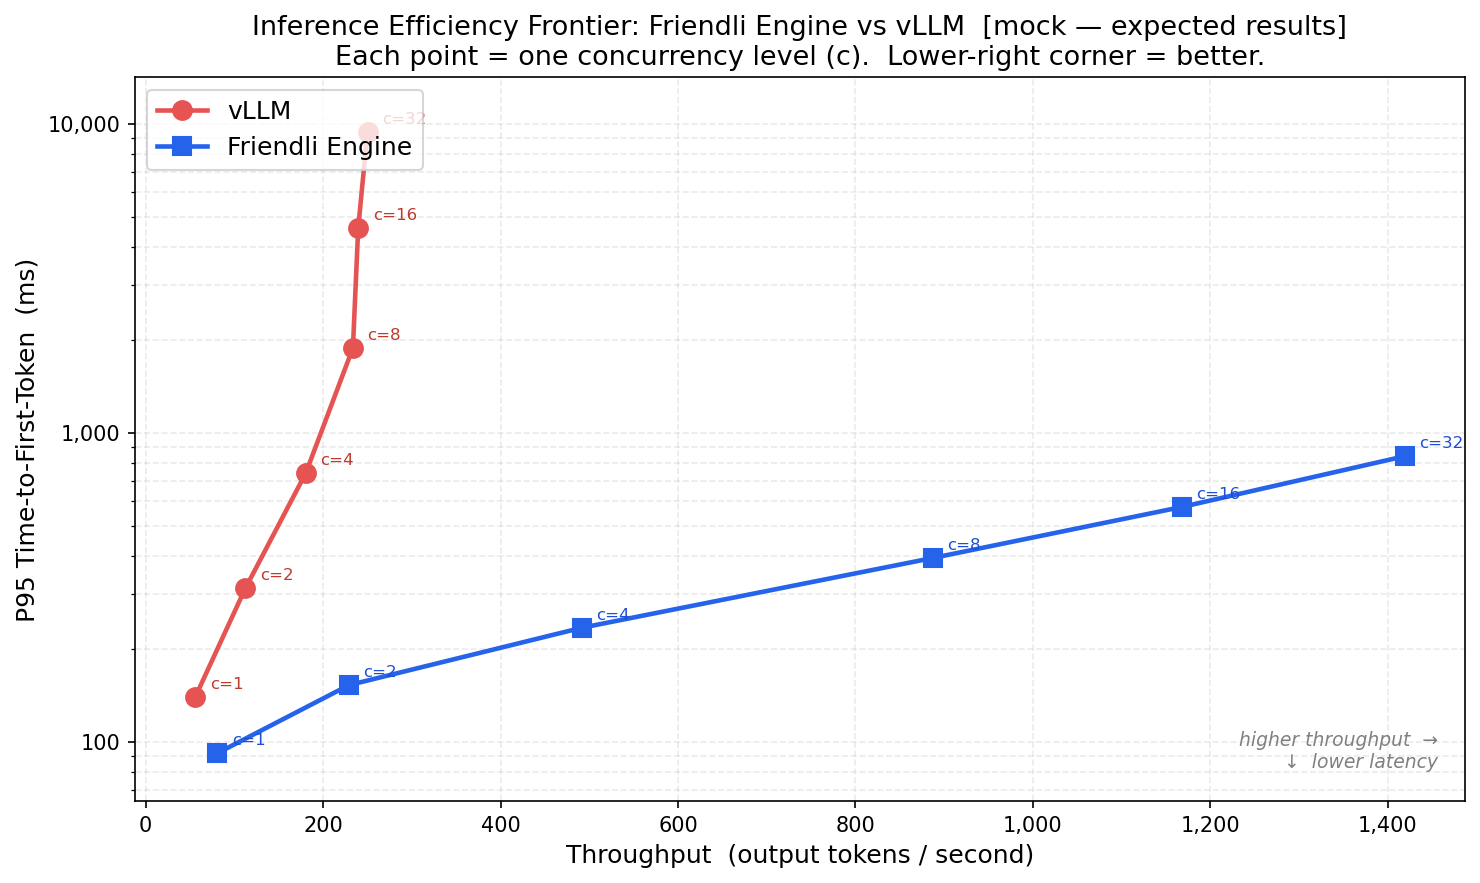
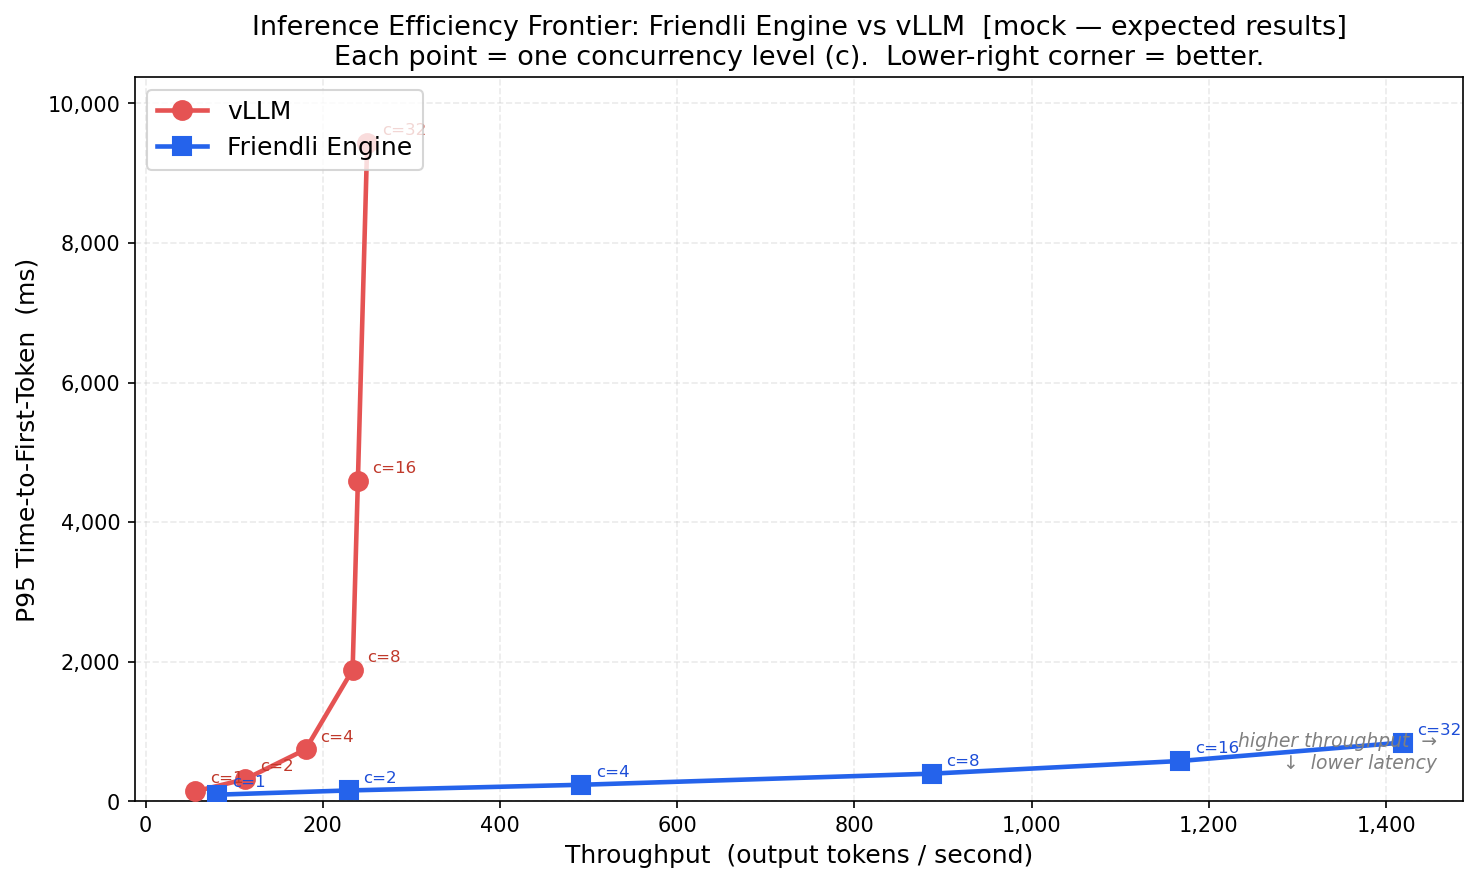
Switch Y-axis to linear scale for visual impact

diff --git a/benchmark.py b/benchmark.py
@@ -288,10 +288,9 @@ def plot_frontier(
     ax.set_xlabel("Throughput  (output tokens / second)", fontsize=12)
     ax.set_ylabel("P95 Time-to-First-Token  (ms)", fontsize=12)
     ax.legend(fontsize=12, loc="upper left")
-    ax.set_yscale("log")
     all_y = vy + fy
-    ax.set_ylim(min(all_y) * 0.7, max(all_y) * 1.5)
-    ax.grid(True, alpha=0.25, linestyle="--", which="both")
+    ax.set_ylim(0, max(all_y) * 1.1)
+    ax.grid(True, alpha=0.25, linestyle="--", which="major")
     ax.xaxis.set_major_formatter(ticker.FuncFormatter(lambda x, _: f"{x:,.0f}"))
     ax.yaxis.set_major_formatter(ticker.FuncFormatter(lambda y, _: f"{y:,.0f}"))
 